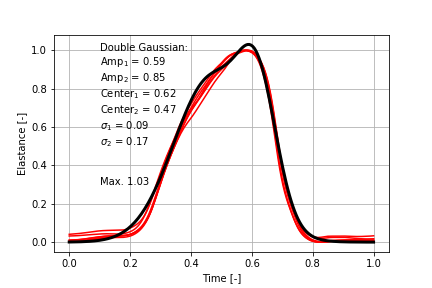
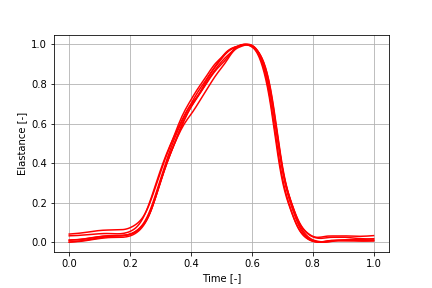
update

Changed region(s): [[0.0602, 0.125, 0.9028, 0.875]]

diff --git a/3_elastance/elastance.py b/3_elastance/elastance.py
@@ -51,25 +51,27 @@ def plot_pvloop(pv):
     
 
     # drop first and last one
-    for i in range(1, len(parts)-1):
-        x = np.linspace(0, 1, num = len(parts[i]))
-        
-        #y = np.array([])
-        parts_min = min(parts[i])
-        parts_max = max(parts[i])
-        #print(parts_min)
-        parts[i] = parts[i] - parts_min
-        parts[i] = parts[i] / (parts_max-parts_min)
-        
+#    for i in range(1, len(parts)-1):
+#        x = np.linspace(0, 1, num = len(parts[i]))
+#        
+#        #y = np.array([])
+#        parts_min = min(parts[i])
+#        parts_max = max(parts[i])
+#        #print(parts_min)
+#        parts[i] = parts[i] - parts_min
+#        parts[i] = parts[i] / (parts_max-parts_min)
+#        
+#
+#
+#        plt.plot(x, parts[i], color = "r", label= "elastance signal")
 
-
-        plt.plot(x, parts[i], color = "r", label= "elastance signal")
+    plt.plot(pv["time"].values, elastance, 'r')
         
-    plt.xlabel("Time [-]")
-    plt.ylabel("Elastance [-]")
+    plt.xlabel("Time [s]")
+    plt.ylabel("Elastance [mmHg/ml]")
         
     plt.grid()    
-    plt.savefig("elastance.png")
+    plt.savefig("elastance_2.png")
     plt.show()
 
 
